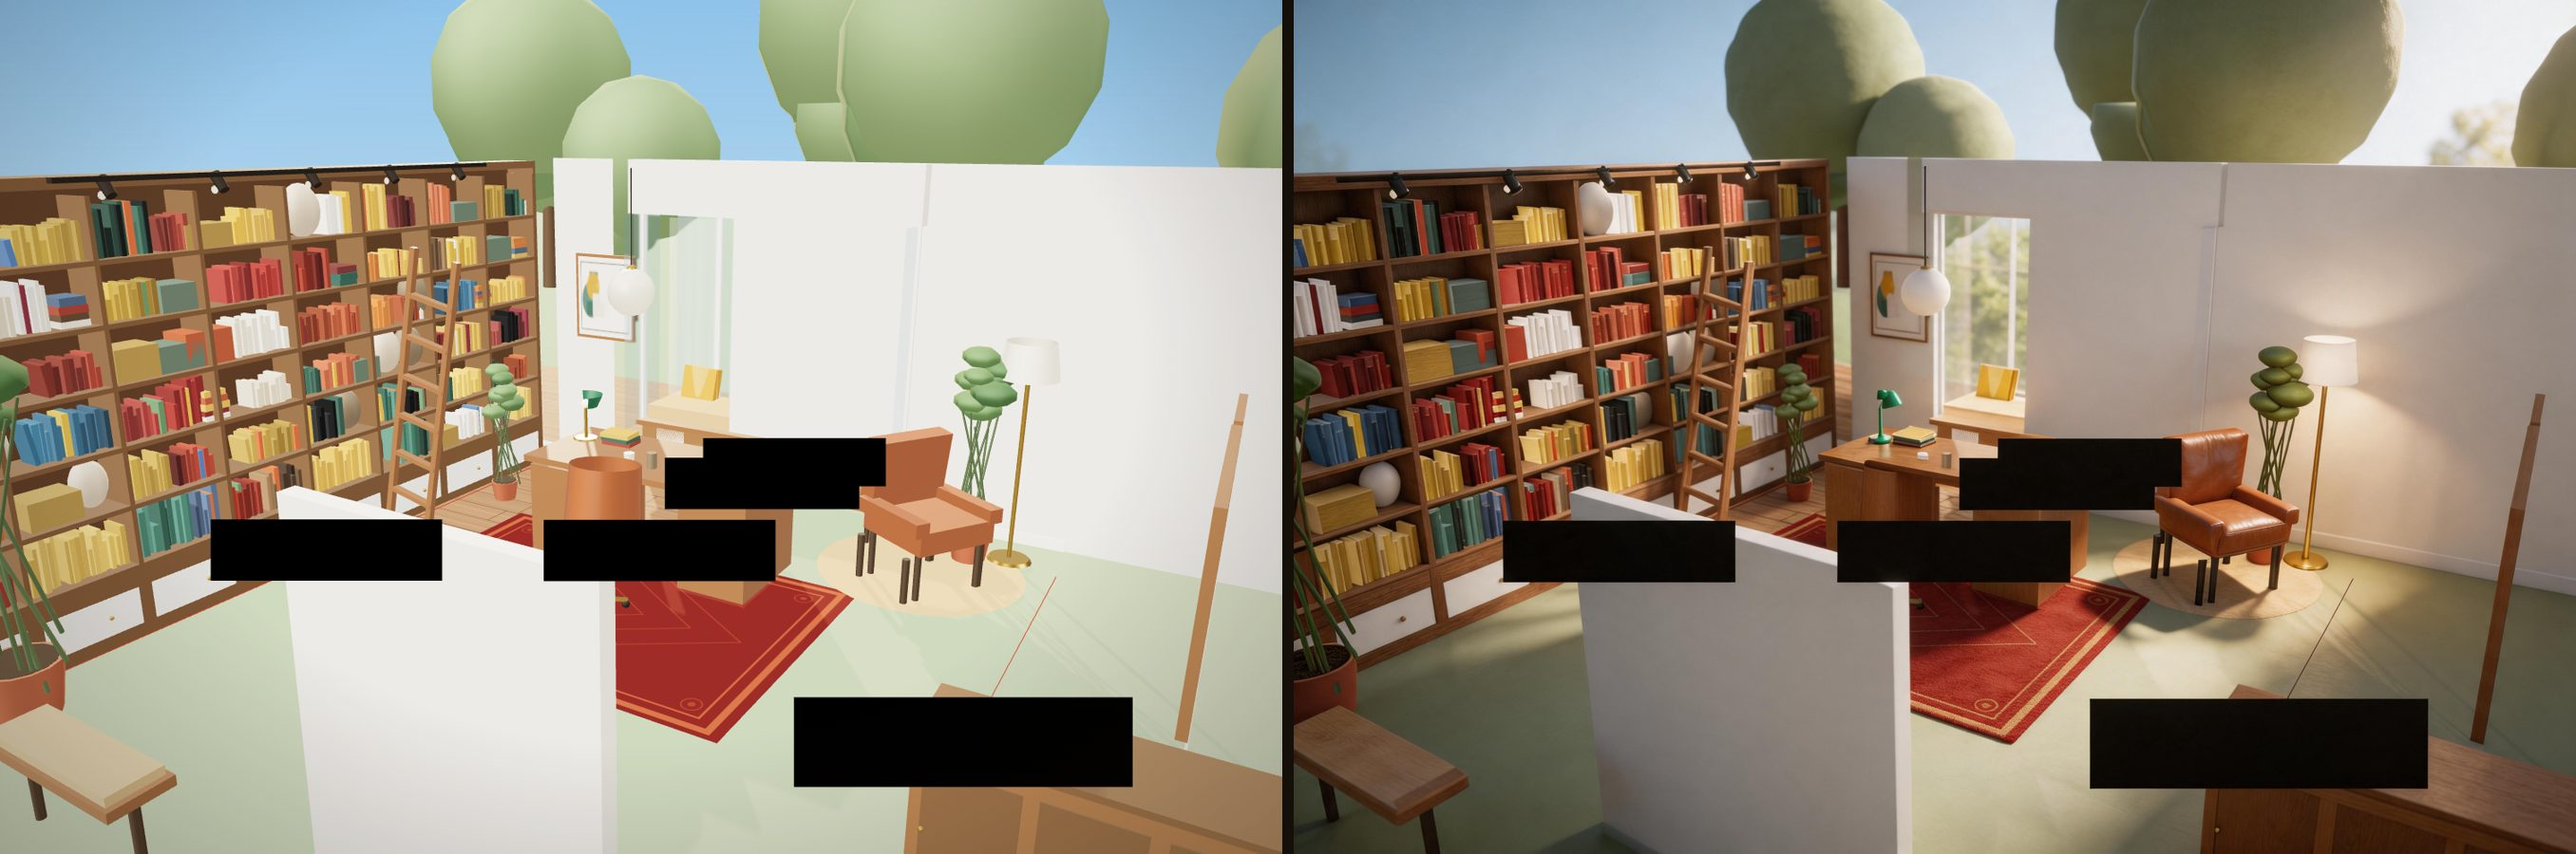
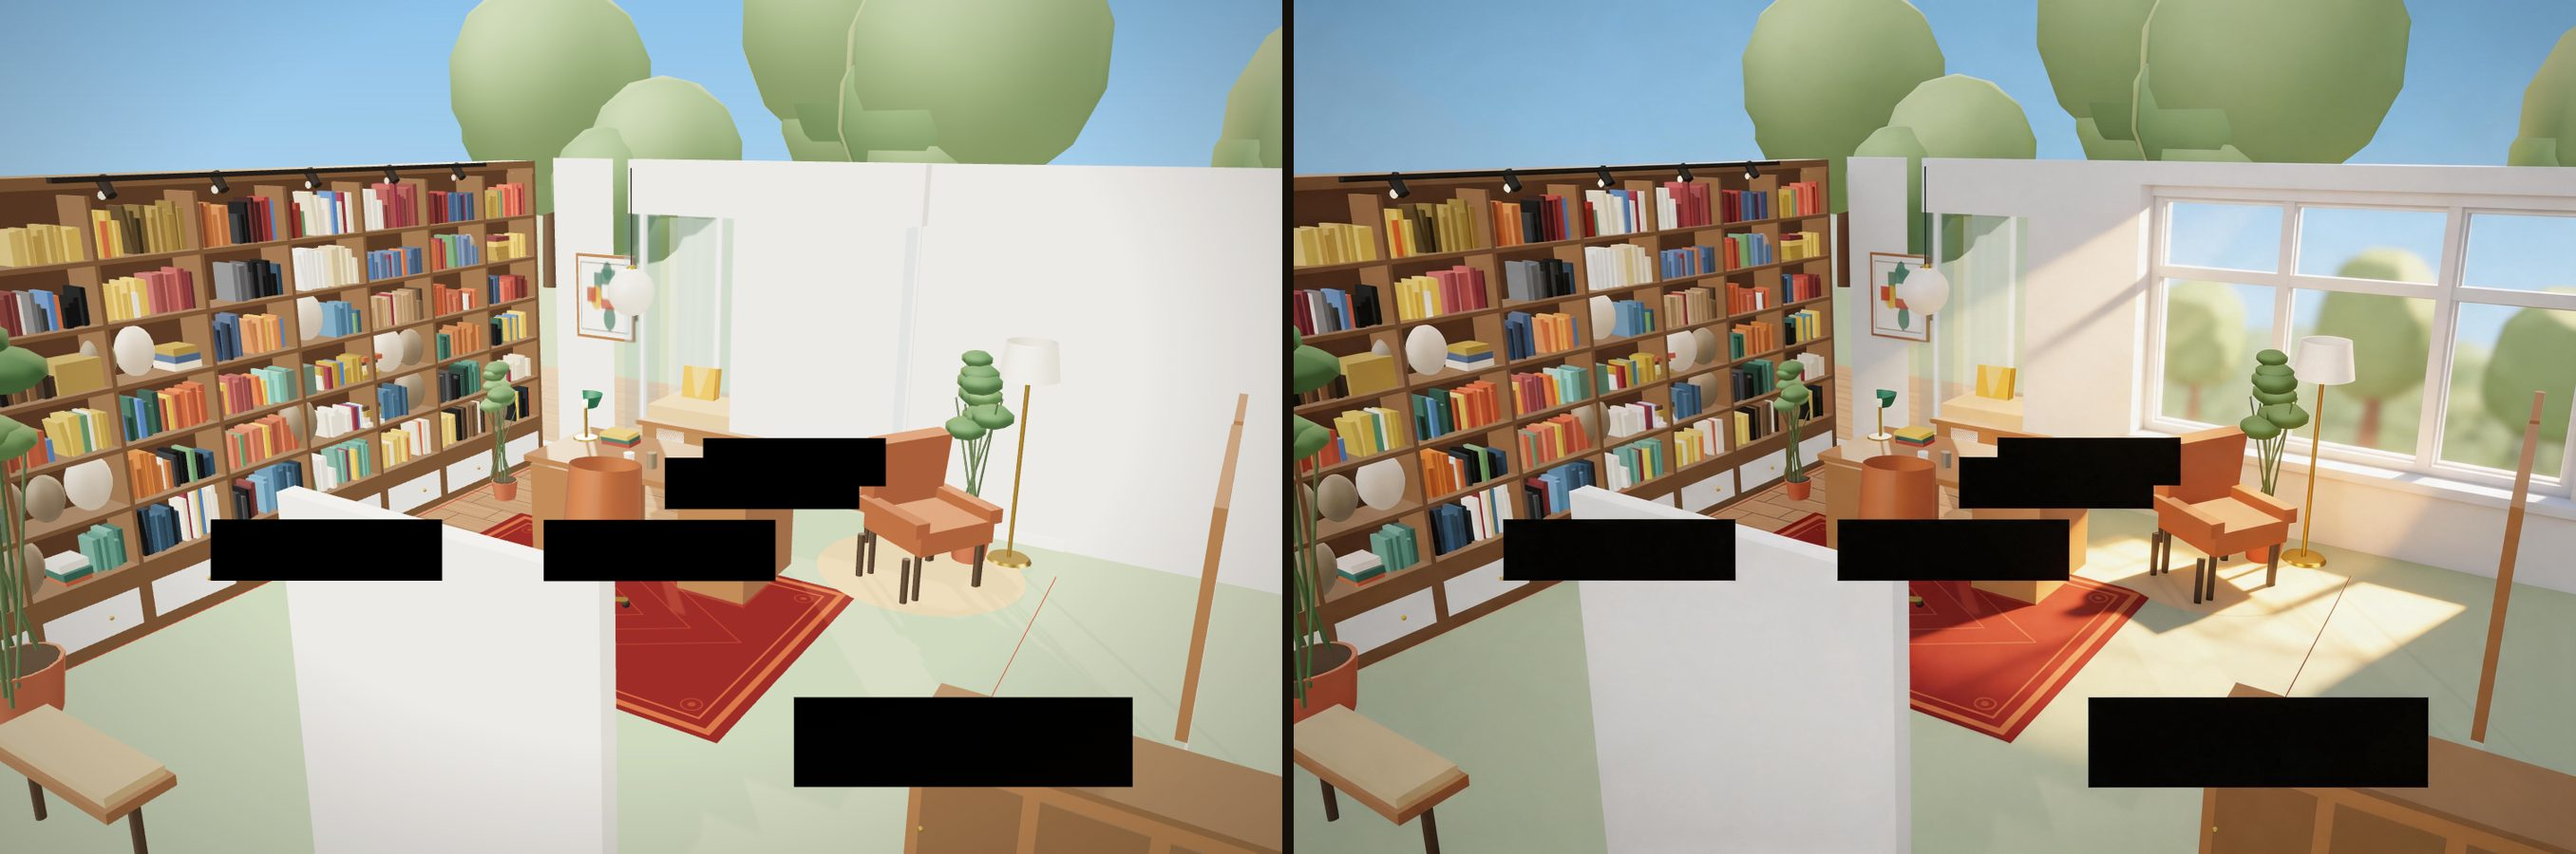
移除图书馆梯（摆放不合理）；全量刷新程序渲染定稿帧与AI写实图

diff --git a/index.html b/index.html
@@ -79,7 +79,7 @@
   <h1>临窗书房</h1>
   <div class="sub">软装方案效果图 &nbsp;·&nbsp; <b>5.0m × 6.0m</b>　层高 2.8m<br>朝南凸窗采光 &nbsp;·&nbsp; 西墙整面书架 &nbsp;·&nbsp; 临窗书桌</div>
   <div class="tagrow">
-    <span class="tag">复古暖木</span><span class="tag">阅读坐榻</span><span class="tag">图书馆梯</span><span class="tag">治愈系</span>
+    <span class="tag">复古暖木</span><span class="tag">阅读坐榻</span><span class="tag">整墙藏书</span><span class="tag">治愈系</span>
   </div>
 </div>
 
@@ -278,8 +278,7 @@ const INFO={
  DESK:{name:'书桌',spec:'实木厚板 1.8×0.85×0.75m，两端抽屉柜腿',mat:'胡桃褐实木 · 黄铜圆拉手',price:'¥3,000–6,000',tip:'面窗而坐，桌面中心距南窗约1.7m——上午侧光不刺屏'},
  BANKER:{name:'银行家台灯',spec:'绿玻璃罩 × 黄铜底座',mat:'祖母绿金属罩 · 2700K 暖光泡',price:'¥300–800',tip:'书房灵魂件，夜晚只亮这一盏刚好'},
  CHAIR:{name:'工作转椅',spec:'坐高47cm，五星脚带轮',mat:'干邑色真皮',price:'¥1,500–3,000',tip:'椅背到桌沿留 30cm 余量起身后不碰柜'},
- SHELF:{name:'整墙书架',spec:'定制 5.4m 长×2.72m 通高×0.35m 深；底柜38cm 带门，上部 8 格×6 层',mat:'橡木 / 黑胡桃；英伦方案可换墨绿背板',price:'¥12,000–22,000',tip:'约24延米层板 ≈ 600–700 册藏书，留两格给摆件'},
- LADDER:{name:'图书馆梯',spec:'斜靠直梯 H2.3m · 7 级踏步',mat:'与书架同木色 · 顶部防滑套',price:'多随定制书架附赠',tip:'搬动时提离轨道即可换位取书'},
+ SHELF:{name:'整墙书架',spec:'定制 5.4m 长×2.72m 通高×0.35m 深；底柜38cm 带门，上部 8 格×6 层',mat:'橡木 / 黑胡桃；英伦方案可换墨绿背板',price:'¥12,000–22,000',tip:'约24延米层板 ≈ 600–700 册藏书，留两格给摆件；如需取高层书籍可加顶部轨道式梯'},
  ARMCHAIR:{name:'单人扶手椅 + 圆几',spec:'椅 62×60×85cm，几 Φ46cm H55cm',mat:'复古皮革或灯芯绒',price:'¥2,300–4,700',tip:'配一块 Φ1.44m 圆毯自成休闲角，下午阳光位'},
  FLOORLAMP:{name:'落地灯',spec:'H1.55m 亚麻鼓罩 Φ38cm',mat:'黄铜杆 · 亚麻布罩',price:'¥600–1,500',tip:'2700K；夜读主灯之一'},
  PENDANT:{name:'餐桌式吊灯',spec:'乳白玻璃球罩 Φ31cm，离桌面 75cm',mat:'黄铜配件',price:'¥400–900',tip:'居书桌正上方，避免眩光选磨砂罩'},
@@ -471,13 +470,6 @@ function buildShelf(){
   booksMesh.count=bi; booksMesh.instanceMatrix.needsUpdate=true;
   if(booksMesh.instanceColor) booksMesh.instanceColor.needsUpdate=true;
   tag(G,'SHELF'); tag(booksMesh,'SHELF');
-  // 图书馆梯
-  const lad=new THREE.Group(); const railM=SW.deskW;
-  for(const sx of [-0.185,0.185]){ const r=box(.045,2.3,.045,railM);
-    r.position.set(sx,1.15,0); lad.add(r);}
-  for(let i=0;i<7;i++){ const st=box(.4,.032,.055,railM); st.position.set(0,.24+i*.29,0); lad.add(st);}
-  lad.position.set(0.92,0,2.72); lad.rotation.z=-0.205; scene.add(lad);
-  tag(lad,'LADDER');
 }
 
 /* ================= 家具 ================= */

diff --git a/设计方案.md b/设计方案.md
@@ -58,8 +58,7 @@ S │ │ 通顶5.4m×8格  │  书桌 │
 
 | 品类 | 规格 | 材质/颜色建议 |
 |------|------|---------------|
-| 书架（定制） | 长5.4m×高2.72m×深0.35m；底柜38cm带门，上部8格×6层，层距35-44cm | 橡木/黑胡桃贴皮；背板可与风格撞色（墨绿方案） |
-| 图书馆梯 | 直梯斜靠式，高2.3m，踏步7级 | 与书架同木色，顶部铜扣件 |
+| 书架（定制） | 长5.4m×高2.72m×深0.35m；底柜38cm带门，上部8格×6层，层距35-44cm | 橡木/黑胡桃贴皮；背板可与风格撞色（墨绿方案）；如需取高层书籍建议定制顶部轨道式梯（本方案未摆放） |
 | 书桌 | 1.8×0.85×0.75m，两端抽屉柜腿 | 实木厚板桌面 4cm；铜圆拉手 |
 | 转椅 | 坐高47cm，五星黄铜脚 | 干邑色真皮 |
 | 单人扶手椅 | 62×60×85cm | 复古皮革或灯芯绒，四区分色靠枕呼应 |
